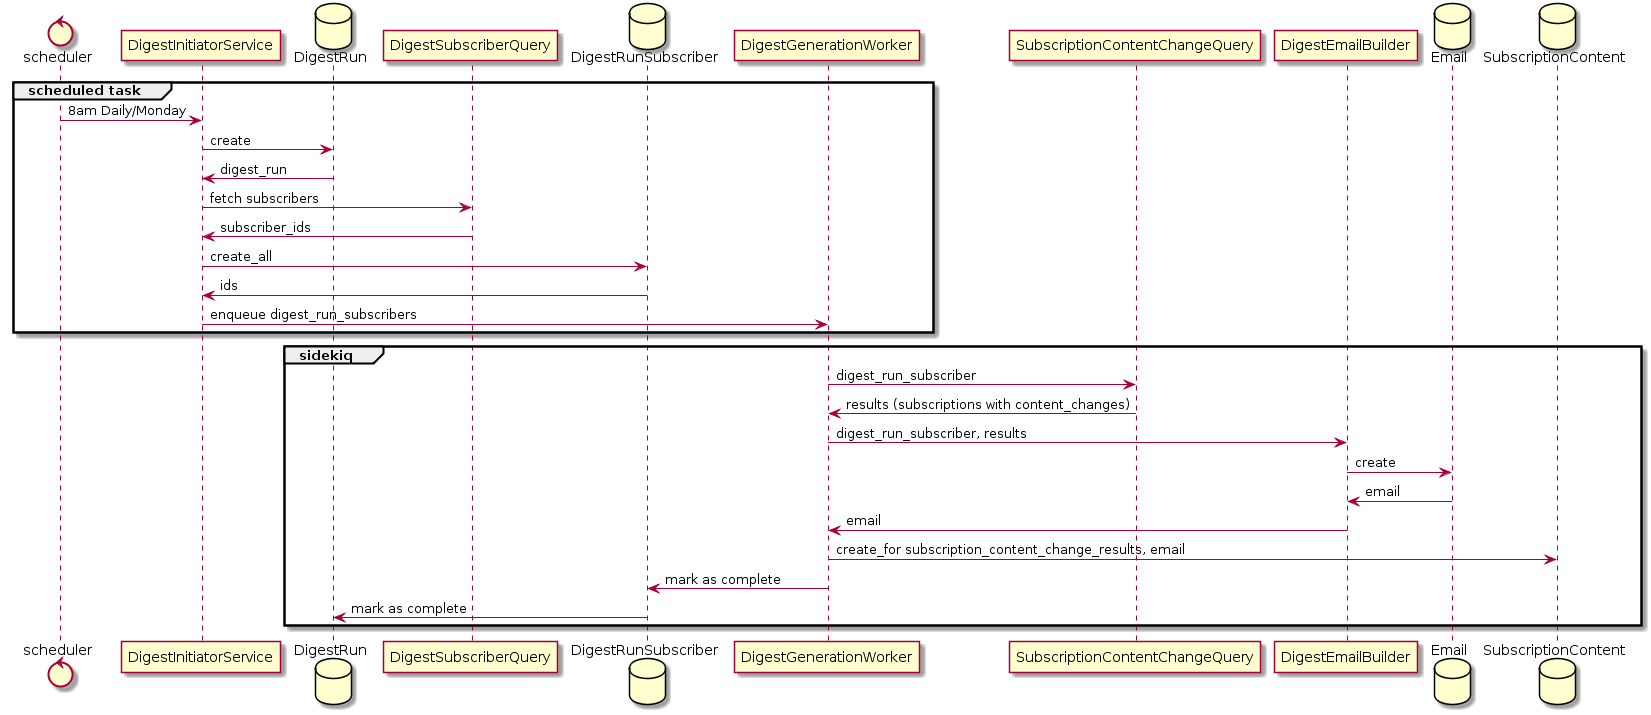
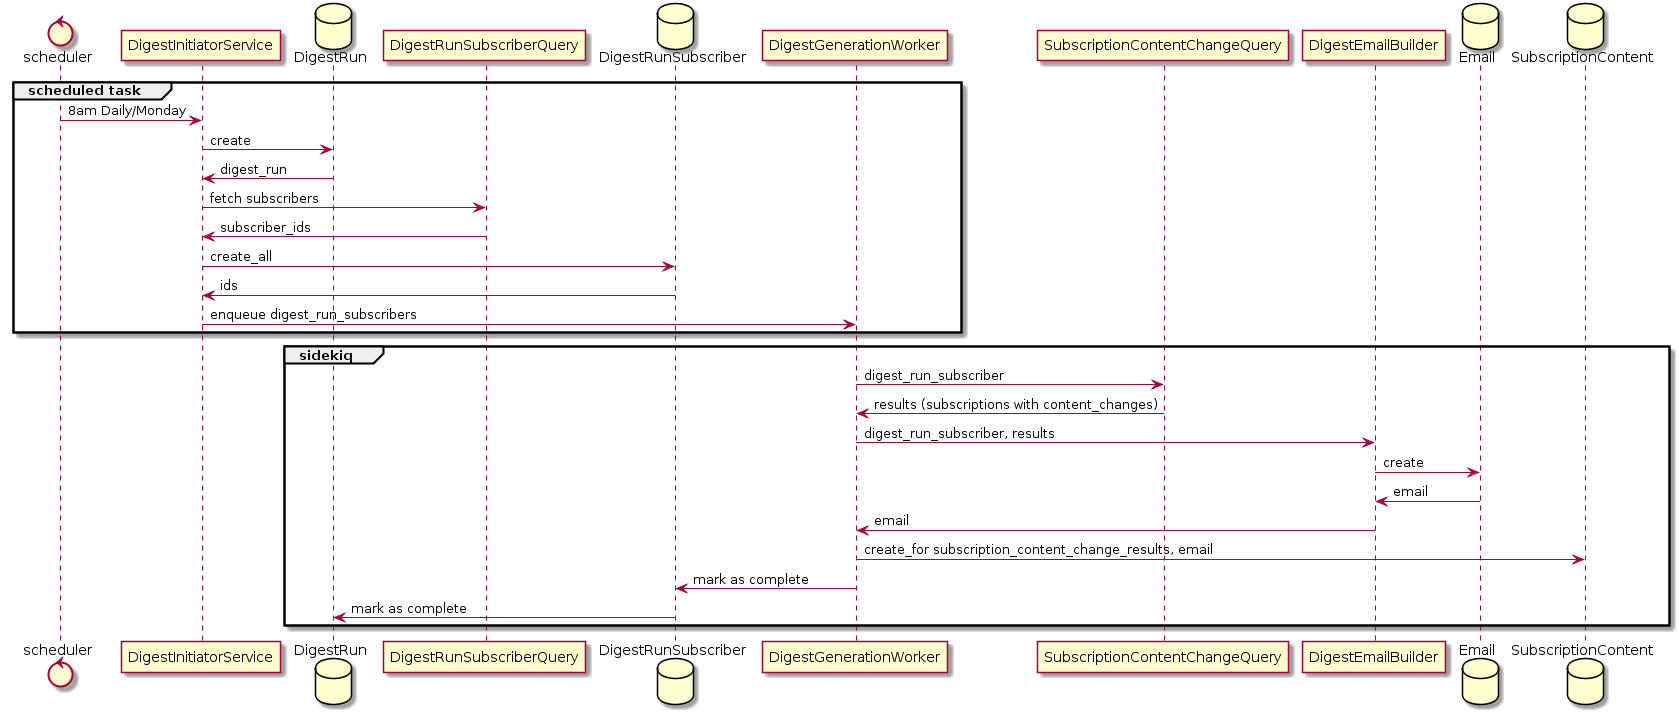
Update docs to show DigestRunSubscriberQuery
Offering to the documentation gods. Keep 'em happy.

diff --git a/doc/arch/adr-002-digest-mvp.md b/doc/arch/adr-002-digest-mvp.md
@@ -50,7 +50,7 @@ this was ill fitting with the classes actual responsibilities.
   for their period
 - Create a [`DigestRun`](#digestrun) model
 - Ensure that multiple digests for the same period are not run concurrently
-- Interface with `DigestSubscriberQuery` to determine which subscribers are
+- Interface with `DigestRunSubscriberQuery` to determine which subscribers are
   due to receive emails for this digest
 
 ##### Should
@@ -86,7 +86,7 @@ a module in Ruby standard library named `Digest`.
 - Have a unique index for digest date and period, however this would limit
   ability to re-run a digest in the case of a problem.
 
-#### `DigestSubscriberQuery`
+#### `DigestRunSubscriberQuery`
 
 Responsible for taking a [`DigestRun`](#digestrun) instance and using that to
 determine which subscribers should receive an email for the digest period.
